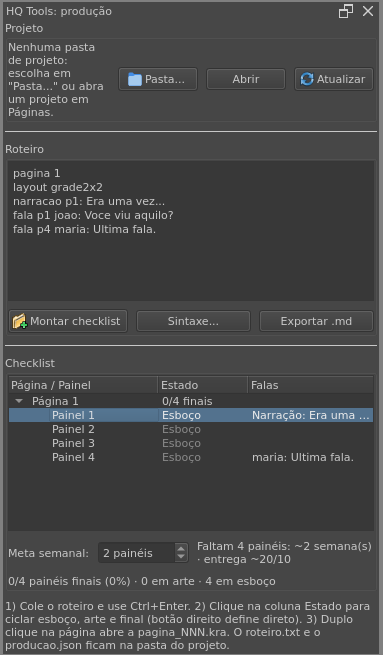
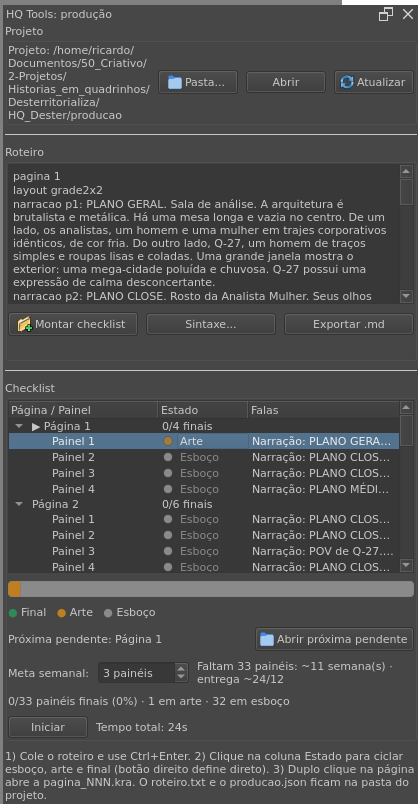
release: v0.15.0 (producao: auto-save, visual novo e timetracking)
- version.py e CHANGELOG (secao 0.15.0 com bloco em ingles).
- READMEs PT/EN: tabela de modulos e 'Uso rapido' com a producao nova (auto-save, barra, bolinha, proxima pendente, tempo, .md) e o item 8 do 3D atualizado (caixas de mao por lado).
- i18n: conferido que as 83 strings do docker de producao tem EN (nenhuma faltando).

Changed region(s): [[0.0, 0.0, 1.0, 1.0], [0.0, 0.0, 0.9191, 0.4275], [0.6031, 0.0916, 0.718, 0.1221]]

diff --git a/hq_tools/core/version.py b/hq_tools/core/version.py
@@ -1,3 +1,3 @@
 """Versão do plugin."""
 
-__version__ = "0.14.1"
+__version__ = "0.15.0"

diff --git a/README.md b/README.md
@@ -60,7 +60,7 @@ Krita 6 (PyQt6).
 | Visualizador 3D | Manequim low-poly posável (MakeHuman + Auto-Rig Pro) como referência, com escolha de modelo (Homem/Mulher) e biblioteca de poses separada em corpo (Idle, Voa, Anda, Corre, Salto e Pose A) e mãos (Fechada, Abertas, Segura e Joinha, autorais para a mão direita, com o seletor Mão: para direita, esquerda espelhada ou ambas): arraste para orbitar; a roda do mouse ou os botões −/+ dão zoom; Shift+arraste, o botão do meio ou o botão Mover deslocam o enquadramento, e "Enquadrar" centraliza; um clique numa região (cabeça, tronco, braço, perna) abre os sliders Dobrar/Abrir/Girar daquela junta. Os controles ficam em abas (Pose, Câmera e Inserir), com o preview sempre à vista; a câmera pode ser ortográfica (padrão) ou perspectiva com lentes 14/28/35 mm (a lente muda só a convergência, sem estourar o quadro), e a cor do manequim é escolhível (bege, azul, gelo ou grafite). Desenhe uma seleção sobre o painel e o preview adota a proporção dela (WYSIWYG, com zoom e deslocamento da câmera); "Flutuar na página" só abre com seleção e aparece sobre ela (arraste/redimensione, opacidade e modo fixar), e a inserção sai no tamanho exato da seleção, abaixo do esboço, desfazendo a seleção. |
 | Perspectiva | Biblioteca de 9 malhas de perspectiva (frontal, dois e três pontos, pássaro e verme em dois níveis, curvilíneas de 4 e 5 pontos) com miniatura e prévia que adota a proporção da seleção: "Flutuar na página" mostra a malha sobre a seleção (arraste e roda); a inserção sai como camada vetorial editável (cada linha com dois nós) no tamanho exato da seleção, abaixo do esboço, como camada ou referência travada, dentro de macro (um Ctrl+Z desfaz) e desfazendo a seleção. |
 | Moodboard | Quadro de referências do projeto, leve porque guarda só links: "Adicionar referências..." redimensiona (lado máximo 1600 px) e salva as imagens em JPG na pasta `moodboard/` do projeto (os originais não mudam) e as insere no `moodboard.kra` como camadas de arquivo numa grade que cresce; duplo clique (ou "Inserir na seleção") traz a referência para o painel selecionado, travada e na medida da seleção, para desenhar por cima; Renomear e Apagar cuidam da pasta (com o quadro aberto, a camada é atualizada junto). |
-| Produção | Checklist do roteiro: cole o texto (a mesma sintaxe das páginas, com o personagem opcional na fala, ex.: `fala p1 joao: ...`) e use Ctrl+Enter; cada página vira um nó com os painéis do layout e cada painel tem três estados (esboço, arte e final; clique na coluna Estado para ciclar, botão direito define direto), com as falas e personagens à vista; a meta de painéis por semana mostra o que falta e a data prevista, o progresso aparece no topo, o duplo clique abre a `pagina_NNN.kra` e "Exportar .md" salva o checklist em Markdown; o `roteiro.txt` e o `producao.json` ficam na subpasta `producao/` do projeto (criada com o projeto; sem projeto aberto, salva na pasta padrão do plugin e avisa para escolher a pasta), e o botão "Sintaxe..." mostra o formato completo. |
+| Produção | Checklist do roteiro: cole o texto (a mesma sintaxe das páginas, com o personagem opcional na fala, ex.: `fala p1 joao: ...`) e use Ctrl+Enter; o roteiro salva sozinho (com o aviso "salvo HH:MM") e cada página vira um nó com os painéis do layout; cada painel tem três estados com bolinha colorida na árvore (esboço, arte e final; clique na coluna Estado para ciclar, botão direito define direto), com as falas e personagens à vista; a barra no topo mostra o progresso em três cores e o botão "Abrir próxima pendente" leva à primeira página não finalizada; o tempo de produção é contado pelo botão Iniciar/Pausar (total e por página, em `tempos.json`); a meta de painéis por semana mostra o que falta e a data prevista, o duplo clique abre a `pagina_NNN.kra` e "Exportar .md" salva o checklist com checkboxes, emojis de estado e tempo por página; o `roteiro.txt`, o `producao.json` e o `tempos.json` ficam na subpasta `producao/` do projeto (criada com o projeto; sem projeto aberto, salva na pasta padrão do plugin e avisa para escolher a pasta), e o botão "Sintaxe..." mostra o formato completo. |
 | Hub | Central para abrir e fechar os módulos: um botão por docker, marcado enquanto a doca está aberta (clicar de novo fecha), agrupados por divisores (Páginas/Produção, Moodboard/Biblioteca, Perspectiva/3D, Paletas/Pincéis, Retículas/Balões e Onomatopeias); a opção "Fechar o atual ao abrir outro" alterna entre um módulo por vez e as dockas convivendo; módulo desligado nas configurações fica com o botão desabilitado e aviso. |
 
 ## Kit de HQ (fontes e balões livres)
@@ -145,14 +145,20 @@ automaticamente; você pode desagrupar quando quiser).
    documento" e insira com duplo clique. A pintura sai como PNG transparente
    recortado pela camada ativa. Renomear, Duplicar e Apagar organizam a lista.
 8. **Visualizador 3D**: no docker "HQ Tools: 3D", escolha o corpo (Homem ou
-   Mulher) e a pose do corpo e a das mãos (padrão: Idle + Fechadas; o seletor
-   Mão: espelha para a esquerda ou aplica nas duas); arraste para orbitar,
+   Mulher) e a pose do corpo e a das mãos (padrão: Idle + Fechadas; cada mão
+   tem a própria caixa e a esquerda recebe a versão espelhada); arraste para orbitar,
    use Shift+arraste (ou o botão Mover) para deslocar, a roda ou os botões −/+
    para o zoom e "Enquadrar" para centralizar; clique numa região do corpo para
    posar. Desenhe uma seleção retangular sobre o painel: o preview mostra
    exatamente o recorte (use o zoom para detalhes, como uma mão) e "Flutuar na
-   página" aparece sobre a seleção. "Inserir como camada" ou "como referência"
+   página" aparece sobre a seleção.    "Inserir como camada" ou "como referência"
    coloca no tamanho da seleção, abaixo do esboço, e desfaz a seleção.
+9. **Produção**: cole o roteiro no docker "HQ Tools: produção" e use Ctrl+Enter
+   (o texto salva sozinho, com o aviso "salvo HH:MM"); clique na coluna Estado
+   para ciclar esboço → arte → final (a bolinha mostra a cor), acompanhe a
+   barra de progresso e use "Abrir próxima pendente" para ir direto à página
+   que falta; o botão Iniciar/Pausar conta o tempo da produção (total e por
+   página) e "Exportar .md" gera o checklist com checkboxes, emojis e tempo.
 
 ## Desenvolvimento
 

diff --git a/README.en.md b/README.en.md
@@ -61,7 +61,7 @@ overview.
 | 3D viewer | Posable low-poly mannequin (MakeHuman + Auto-Rig Pro) as reference, with model choice (Man/Woman) and a pose library split into body (Idle, Fly, Walk, Run, Jump and Pose A) and hands (Closed, Open, Holding and Thumbs up, authored for the right hand, with the Hand: selector for right, mirrored left or both): drag to orbit; the mouse wheel or the −/+ buttons zoom; Shift+drag, the middle mouse button or the Move button pan the framing, and "Fit" recenters; click a region (head, torso, arm, leg) to open Bend/Open/Twist sliders for that joint. The controls live in tabs (Pose, Camera and Insert), with the preview always visible; the camera can be orthographic (default) or perspective with 14/28/35 mm lenses (the lens changes only the convergence, without spilling out of the frame), and the mannequin color is selectable (beige, blue, ice or graphite). Draw a selection over the panel and the preview adopts its aspect ratio (WYSIWYG, camera zoom and pan included); "Float on page" only opens with a selection and appears over it (drag/resize, opacity and lock mode), and the insertion lands at the exact selection size, below the sketch, clearing the selection. |
 | Perspective | Library of 9 perspective grids (one-point, two-point, three-point, bird's and worm's eye in two levels, 4- and 5-point curvilinear) with thumbnails and a preview that adopts the selection aspect ratio: "Float on page" shows the grid over the selection (drag and wheel); the insertion lands as an editable vector layer (each line with two nodes) at the exact selection size, below the sketch, as a layer or a locked reference, inside a macro (one Ctrl+Z undoes it) and clearing the selection. |
 | Moodboard | Project reference board, light because it stores only links: "Add references..." resizes (max side 1600 px) and saves the images as JPG in the project's `moodboard/` folder (the originals stay untouched) and inserts them into `moodboard.kra` as file layers on a grid that grows; double-click (or "Insert into selection") brings the reference to the selected panel, locked and fitted to the selection, for tracing over; Rename and Delete manage the folder (with the board open, the layer is updated along). |
-| Production | Script checklist: paste the text (the same syntax as the pages, with the optional character on the line, e.g. `fala p1 joao: ...`) and use Ctrl+Enter; each page becomes a node with the layout panels and each panel has three states (sketch, art and final; click the State column to cycle, right-click sets it directly), with the lines and characters in view; the weekly panel goal shows what is left and the expected date, the progress sits on top, double-click opens the `pagina_NNN.kra` and "Export .md" saves the checklist as Markdown; `roteiro.txt` and `producao.json` live in the project's `producao/` subfolder (created with the project; without a project open, it saves in the plugin default folder and warns to choose the folder), and the "Syntax..." button shows the full format. |
+| Production | Script checklist: paste the text (the same syntax as the pages, with the optional character on the line, e.g. `fala p1 joao: ...`) and use Ctrl+Enter; the script auto-saves (with a "saved HH:MM" hint) and each page becomes a node with the layout panels; each panel has three states with a colored dot in the tree (sketch, art and final; click the State column to cycle, right-click sets it directly), with the lines and characters in view; the bar on top shows the progress in three colors and the "Open next pending" button jumps to the first unfinished page; production time is counted with the Start/Pause button (total and per page, in `tempos.json`); the weekly panel goal shows what is left and the expected date, double-click opens the `pagina_NNN.kra` and "Export .md" saves the checklist with checkboxes, state emojis and per-page time; `roteiro.txt`, `producao.json` and `tempos.json` live in the project's `producao/` subfolder (created with the project; without a project open, it saves in the plugin default folder and warns to choose the folder), and the "Syntax..." button shows the full format. |
 | Hub | Control center to open and close the modules: one button per docker, checked while the dock is open (click again to close), grouped by dividers (Pages/Production, Moodboard/Library, Perspective/3D, Palettes/Brushes, Screentones/Balloons and Sound effects); the "Close the current one when opening another" option toggles between one module at a time and docks living together; a module disabled in the settings gets a disabled button with a warning. |
 
 ## Comic kit (fonts and free balloons)
@@ -147,14 +147,20 @@ automatically, and you can ungroup whenever you want).
    PNG trimmed by the active layer. Rename, Duplicate and Delete organize the
    list.
 8. **3D viewer**: in the "HQ Tools: 3D" docker, choose the model (Man or
-   Woman) and the body and hand poses (default: Idle + Closed; the Hand:
-   selector mirrors to the left or applies to both); drag to orbit, use
+   Woman) and the body and hand poses (default: Idle + Closed; each hand has
+   its own box and the left one receives the mirrored version); drag to orbit, use
    Shift+drag (or the Move button) to pan, the wheel or the −/+ buttons to
    zoom and "Fit" to recenter; click a body region to pose. Draw a rectangular
    selection over the panel: the preview shows exactly the crop (use zoom for
    details, like a hand) and "Float on page" appears over the selection.
    "Insert as layer" or "as reference" places it at the selection size, below
    the sketch, and clears the selection.
+9. **Production**: paste the script in the "HQ Tools: production" docker and
+   use Ctrl+Enter (the text auto-saves, with a "saved HH:MM" hint); click the
+   State column to cycle sketch → art → final (the dot shows the color), follow
+   the progress bar and use "Open next pending" to jump straight to the missing
+   page; the Start/Pause button counts production time (total and per page) and
+   "Export .md" writes the checklist with checkboxes, emojis and time.
 
 ## Development
 

diff --git a/CHANGELOG.md b/CHANGELOG.md
@@ -1,6 +1,6 @@
 # Changelog
 
-## [Não publicado]
+## [0.15.0] — 2026-10-08
 
 Produção (v0.15): o roteiro ganha auto-save (grava sozinho depois da última
 tecla e no fechamento, com indicador "salvo HH:MM"); o checklist ganha barra de
